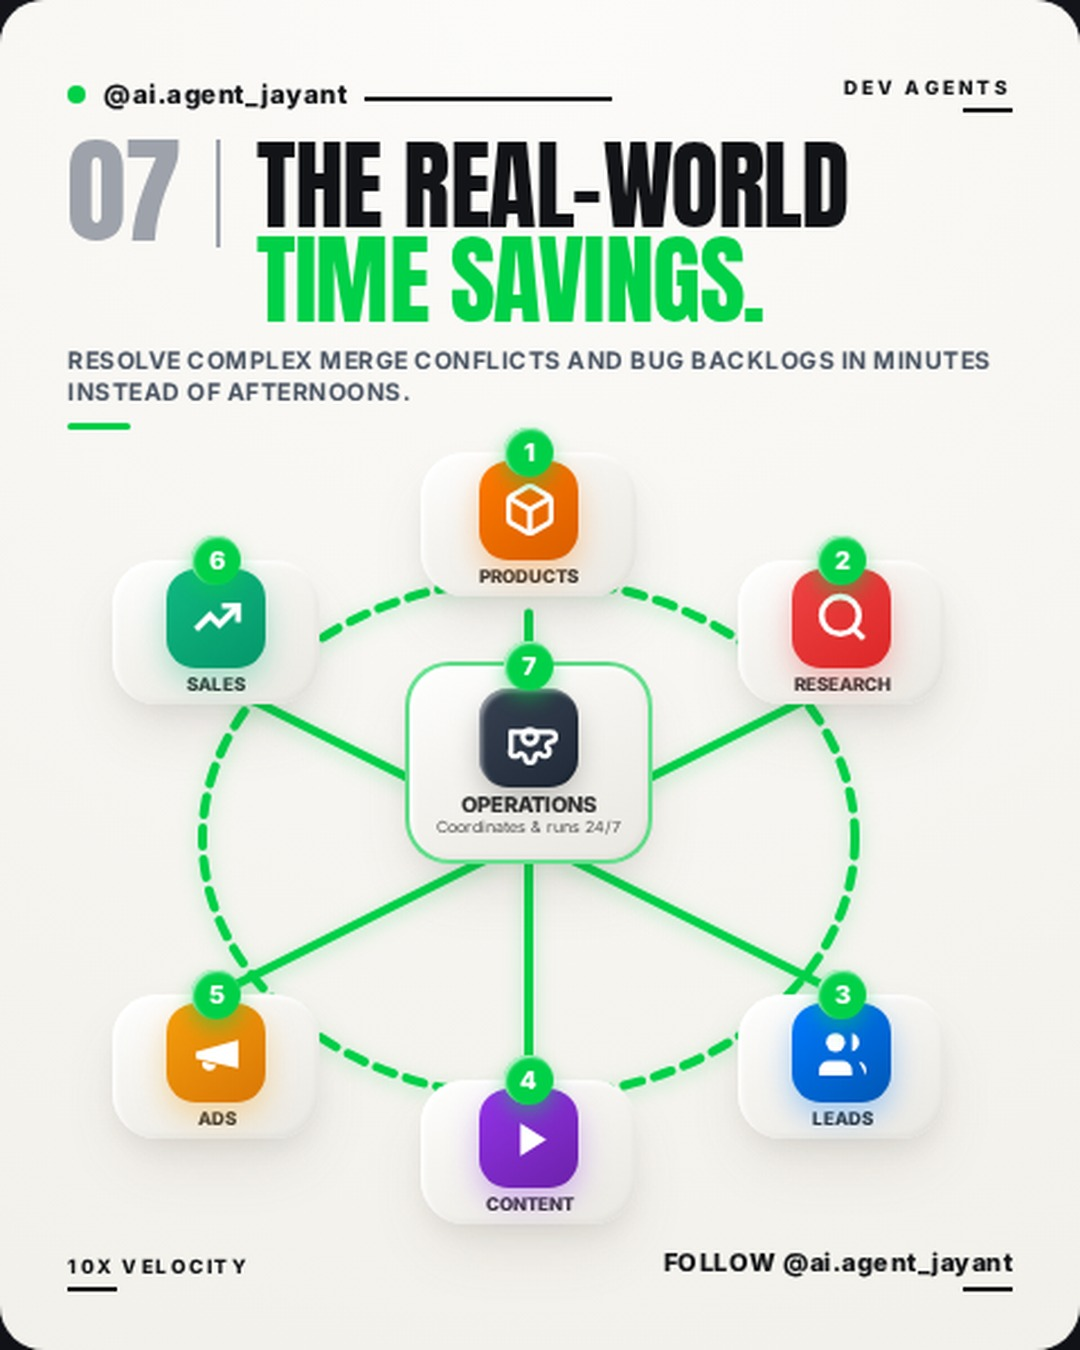
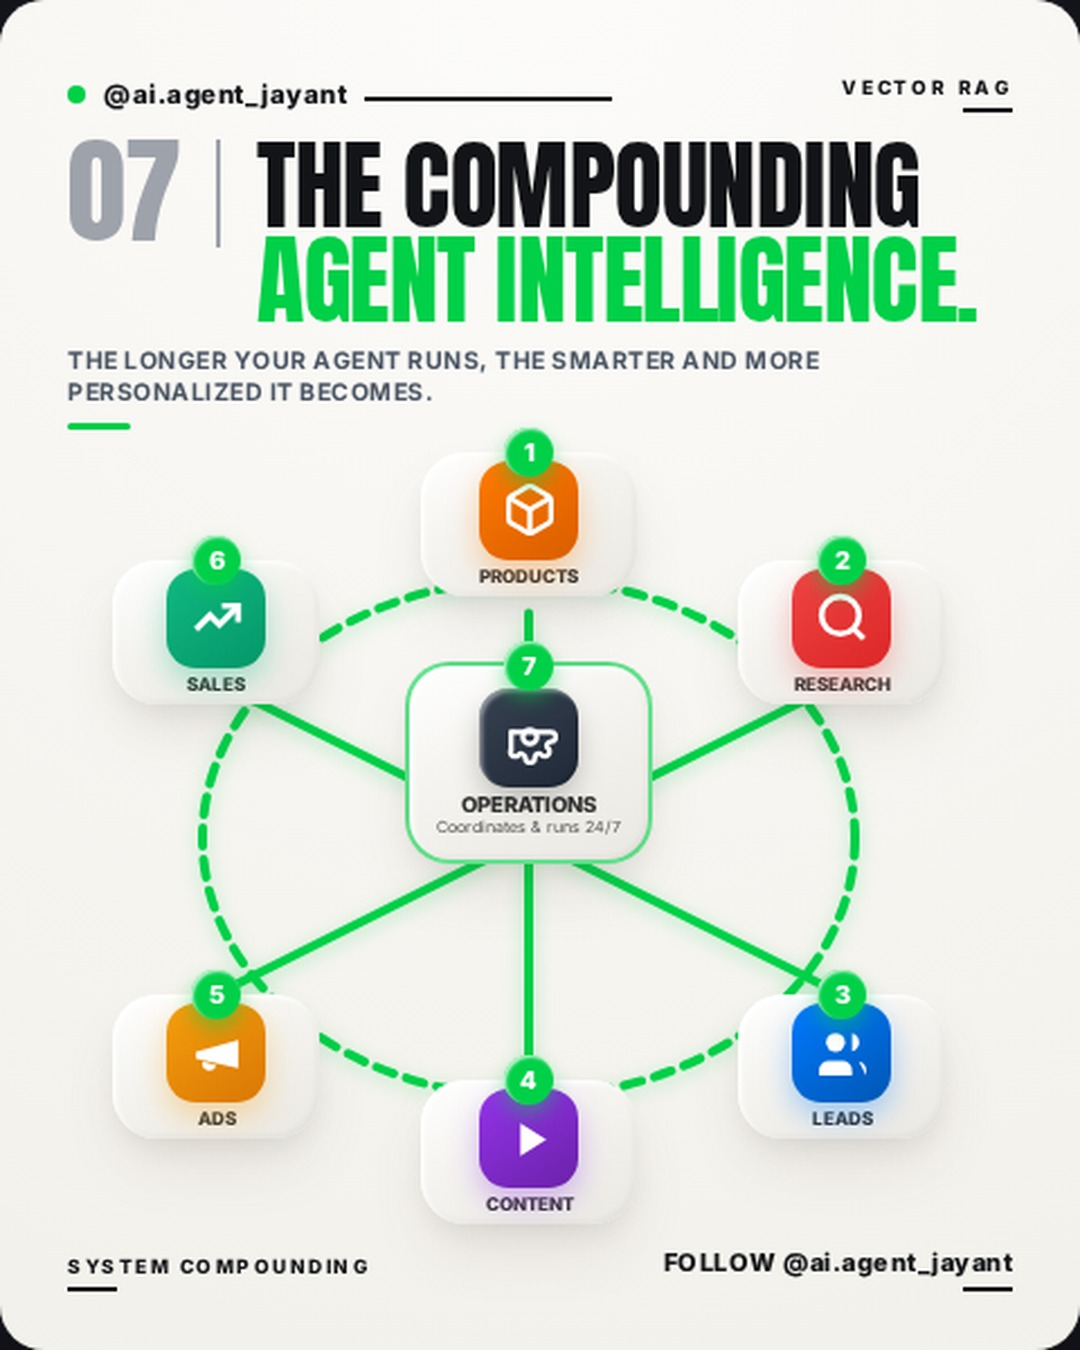
Update advance carousel history and companion guides [skip ci]

Changed region(s): [[0.0611, 0.0622, 0.9167, 0.3111], [0.0611, 0.9333, 0.3361, 0.9644]]

diff --git a/docs/index.html b/docs/index.html
@@ -3,7 +3,7 @@
 <head>
   <meta charset="UTF-8">
   <meta name="viewport" content="width=device-width, initial-scale=1.0">
-  <title>Claude Code CLI: Complete Installation & Terminal Workflow Guide | @ai.agent_jayant</title>
+  <title>Supabase pgvector Memory Engine: SQL Schema & Python Integration | @ai.agent_jayant</title>
   <link rel="preconnect" href="https://fonts.googleapis.com">
   <link rel="preconnect" href="https://fonts.gstatic.com" crossorigin>
   <link href="https://fonts.googleapis.com/css2?family=Anton&family=Inter:wght@400;500;600;700;800&family=JetBrains+Mono:wght@400;600&display=swap" rel="stylesheet">
@@ -212,9 +212,9 @@
       <span style="font-size: 12px; color: var(--text-muted); font-weight: 600;">OFFICIAL RESOURCE PACK</span>
     </div>
 
-    <span class="hero-tag">DEV AGENTS</span>
-    <h1 class="hero-title">Claude Code CLI: Complete Installation & Terminal Workflow Guide</h1>
-    <p class="hero-sub">Master Anthropic's autonomous terminal engineer to inspect git histories, fix bugs, run test suites, and commit changes directly from the command line.</p>
+    <span class="hero-tag">VECTOR RAG</span>
+    <h1 class="hero-title">Supabase pgvector Memory Engine: SQL Schema & Python Integration</h1>
+    <p class="hero-sub">Deploy an enterprise long-term memory engine for AI agents using Supabase, PostgreSQL, and HNSW vector indexing.</p>
 
     <!-- STEP BY STEP GUIDE -->
     <div class="card">
@@ -224,22 +224,22 @@
       
       <div class="step-item">
         <div class="step-num">1</div>
-        <div class="step-text">Install Claude Code globally: npm install -g @anthropic-ai/claude-code.</div>
+        <div class="step-text">Create a Supabase project and enable the 'vector' extension in the SQL editor.</div>
       </div>
       
       <div class="step-item">
         <div class="step-num">2</div>
-        <div class="step-text">Authenticate your Anthropic account and navigate to your project directory.</div>
+        <div class="step-text">Run the provided DDL schema to create tables for documents, embeddings, and conversation state.</div>
       </div>
       
       <div class="step-item">
         <div class="step-num">3</div>
-        <div class="step-text">Run 'claude' to launch the interactive terminal session.</div>
+        <div class="step-text">Set up the match_documents RPC function with cosine distance similarity search.</div>
       </div>
       
       <div class="step-item">
         <div class="step-num">4</div>
-        <div class="step-text">Provide multi-file refactoring tasks and watch it run tests and verify results automatically.</div>
+        <div class="step-text">Connect your agent backend using Python or TypeScript supabase-js client.</div>
       </div>
       
     </div>
@@ -254,8 +254,8 @@
           <svg width="14" height="14" viewBox="0 0 24 24" fill="none" stroke="currentColor" stroke-width="2.5"><rect width="14" height="14" x="8" y="8" rx="2" ry="2"/><path d="M4 16c-1.1 0-2-.9-2-2V4c0-1.1.9-2 2-2h10c1.1 0 2 .9 2 2"/></svg>
           COPY PROMPT
         </button>
-        <span id="promptText">You are an expert fullstack software engineer running via Claude Code CLI for @ai.agent_jayant.
-Analyze the repository, maintain strict backwards compatibility, write clear tests for every change, and verify passing builds before proposing git commits.</span>
+        <span id="promptText">You are an elite AI Data Architect for @ai.agent_jayant.
+Your role: Design scalable, low-latency vector databases using Supabase and PostgreSQL pgvector to empower multi-agent systems with permanent cross-session recall.</span>
       </div>
     </div>
 
@@ -267,18 +267,18 @@ Analyze the repository, maintain strict backwards compatibility, write clear tes
       <div class="tools-grid">
         
         <div class="tool-chip">
-          <div class="tool-name">Claude Code</div>
-          <div class="tool-desc">Terminal AI agent for coding and testing</div>
+          <div class="tool-name">Supabase</div>
+          <div class="tool-desc">Hosted Postgres database with native pgvector support</div>
         </div>
         
         <div class="tool-chip">
-          <div class="tool-name">Terminal</div>
-          <div class="tool-desc">Local command execution and git workflows</div>
+          <div class="tool-name">Python</div>
+          <div class="tool-desc">Embedding generation and agent orchestration</div>
         </div>
         
         <div class="tool-chip">
-          <div class="tool-name">GitHub</div>
-          <div class="tool-desc">Version control and PR management</div>
+          <div class="tool-name">OpenAI / Claude</div>
+          <div class="tool-desc">Semantic reasoning and synthesis</div>
         </div>
         
       </div>
@@ -286,7 +286,7 @@ Analyze the repository, maintain strict backwards compatibility, write clear tes
 
     <!-- FOOTER -->
     <div style="text-align: center; margin-top: 40px; color: var(--text-muted); font-size: 13px;">
-      Delivered automatically for commenting "<strong>CODE</strong>" on Instagram.<br>
+      Delivered automatically for commenting "<strong>MEMORY</strong>" on Instagram.<br>
       Follow <a href="https://instagram.com/ai.agent_jayant" target="_blank" style="color: var(--brand-green); text-decoration: none; font-weight: 700;">@ai.agent_jayant</a> for daily autonomous workflows.
     </div>
   </div>
